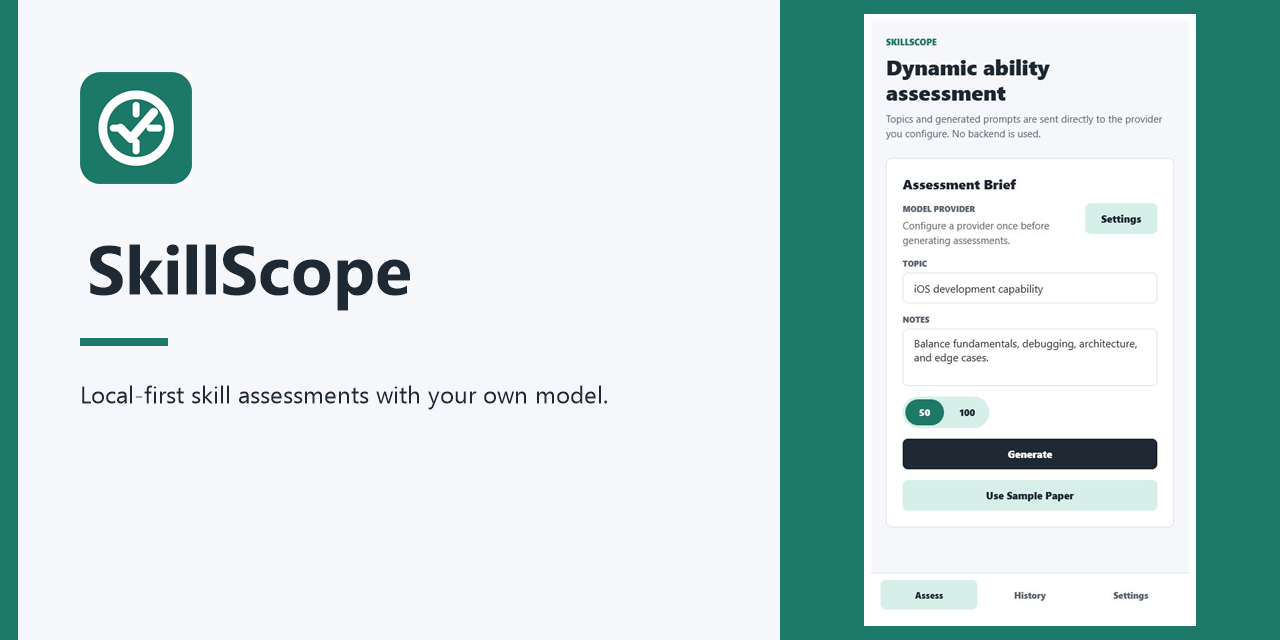
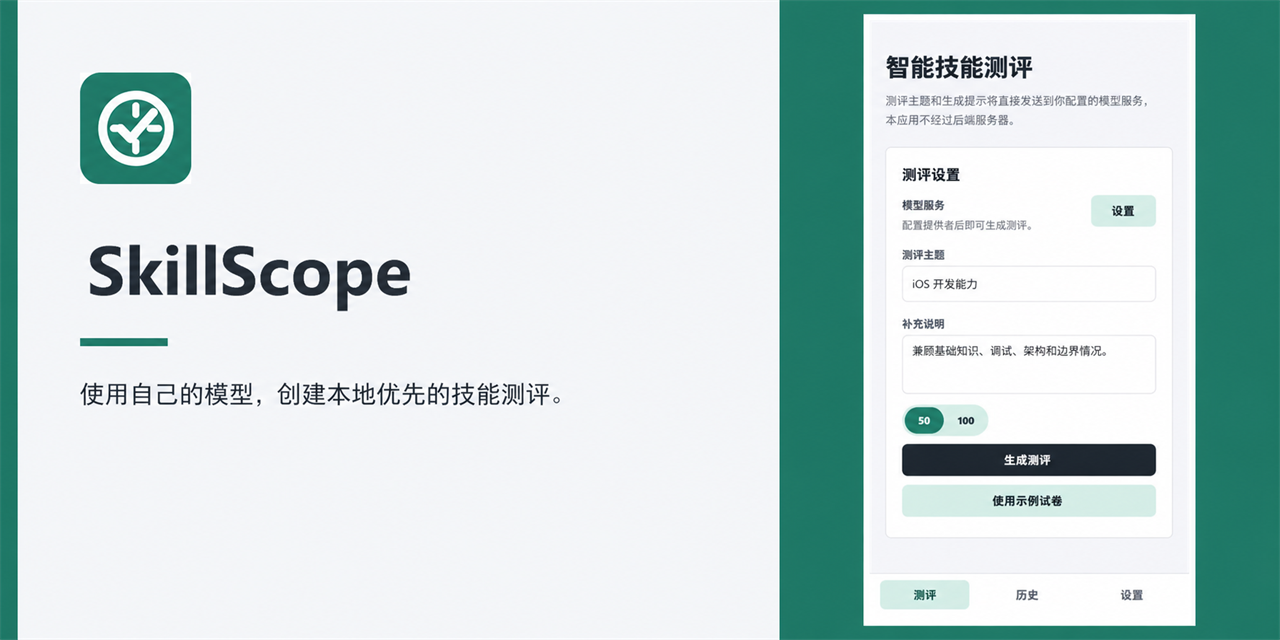
fix: complete Chinese localization coverage

diff --git a/src/i18n/zhCN.ts b/src/i18n/zhCN.ts
@@ -143,7 +143,28 @@ export function localizeErrorMessage(message: string): string {
   if (invalidJson) return `模型服务返回的不是有效 JSON：${invalidJson[1]}`;
 
   const invalidAssessment = message.match(/^Generated assessment is invalid:\s*(.*)$/s);
-  if (invalidAssessment) return `生成的测评数据不完整：${invalidAssessment[1]}`;
+  if (invalidAssessment) return `生成的测评数据不完整：${localizeValidationDetails(invalidAssessment[1] ?? '')}`;
 
   return message;
+}
+
+function localizeValidationDetails(details: string): string {
+  return details
+    .replace(/Question count must be 50 or 100\./g, '题目数量必须为 50 或 100 道。')
+    .replace(/Questions must be an array\./g, '题目列表必须是数组。')
+    .replace(/Expected (\d+) questions but received (\d+)\./g, '应生成 $1 道题，但实际收到 $2 道。')
+    .replace(/Scoring levels are required\./g, '缺少评分等级。')
+    .replace(/Scoring levels must cover 0 through 100 percent without gaps\./g, '评分等级必须连续覆盖 0% 到 100%。')
+    .replace(/Question ([^ ]+) prompt is required\./g, '第 $1 题缺少题目内容。')
+    .replace(/Question ([^ ]+) has unsupported type ([^.]+)\./g, '第 $1 题使用了不支持的题型 $2。')
+    .replace(/Question ([^ ]+) has unsupported difficulty ([^.]+)\./g, '第 $1 题使用了不支持的难度 $2。')
+    .replace(/Question ([^ ]+) knowledgePoint is required\./g, '第 $1 题缺少知识点。')
+    .replace(/Question ([^ ]+) must have at least two options\./g, '第 $1 题至少需要两个选项。')
+    .replace(/Question ([^ ]+) option ([^ ]+) text is required\./g, '第 $1 题的 $2 选项缺少内容。')
+    .replace(/Question ([^ ]+) correctOptionIds must be an array\./g, '第 $1 题的正确答案必须是数组。')
+    .replace(/Question ([^ ]+) correct option ([^ ]+) does not exist in options\./g, '第 $1 题的正确答案 $2 不在选项中。')
+    .replace(/Question ([^ ]+) (single_choice|true_false) questions must have exactly one correct option\./g, '第 $1 题必须且只能有一个正确选项。')
+    .replace(/Question ([^ ]+) multiple_choice questions must have at least one correct option\./g, '第 $1 题至少需要一个正确选项。')
+    .replace(/Question ([^ ]+) explanation is required\./g, '第 $1 题缺少答案解析。')
+    .replace(/。\s+/g, '。');
 }

diff --git a/src/i18n/zhCN.test.ts b/src/i18n/zhCN.test.ts
@@ -41,4 +41,12 @@ describe('zhCN interface copy', () => {
   it('keeps unknown provider details visible', () => {
     expect(localizeErrorMessage('custom provider failure')).toBe('custom provider failure');
   });
+
+  it('localizes generated assessment validation details', () => {
+    expect(
+      localizeErrorMessage(
+        'Generated assessment is invalid: Expected 50 questions but received 49. Question 1 prompt is required.',
+      ),
+    ).toBe('生成的测评数据不完整：应生成 50 道题，但实际收到 49 道。第 1 题缺少题目内容。');
+  });
 });
